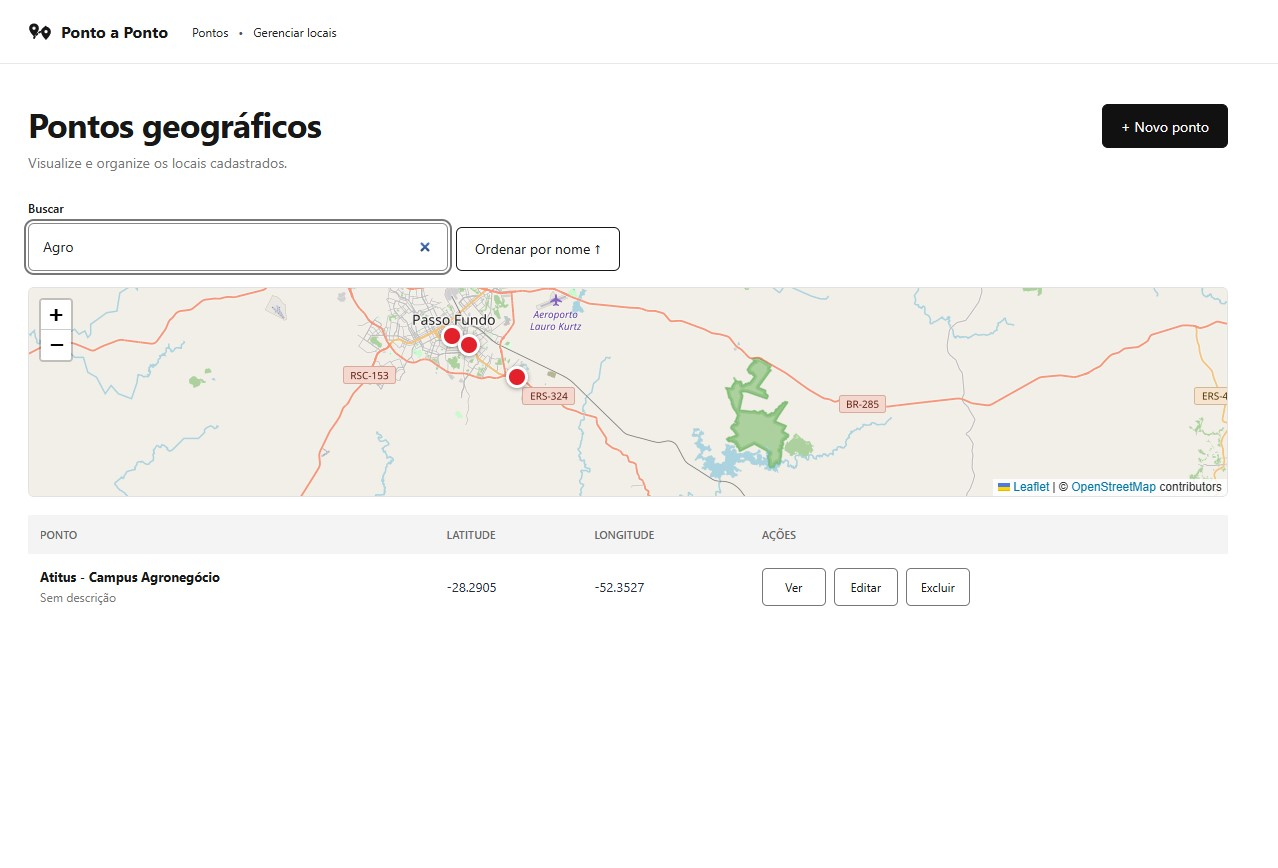
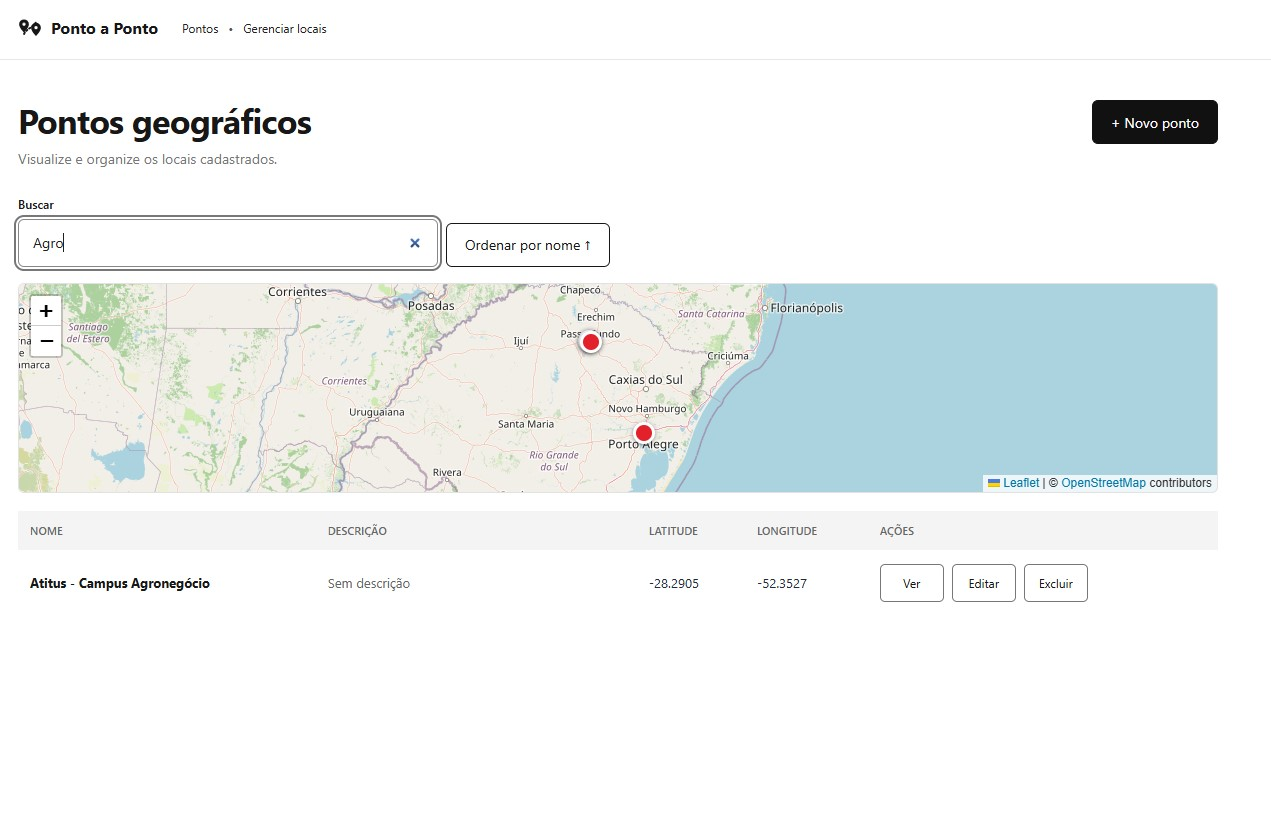
Ajustado design para manter em 2 colunas separadas o nome e a descrição

diff --git a/src/pages/ListaPontos.jsx b/src/pages/ListaPontos.jsx
@@ -9,22 +9,32 @@ function ListaPontos() {
   const [ordemAscendente, setOrdemAscendente] = useState(true);
   const [carregando, setCarregando] = useState(true);
   const [erro, setErro] = useState("");
-
-  async function carregarPontos() {
-    setCarregando(true);
-    setErro("");
-    try {
-      setPontos(await listarPontos());
-    } catch (error) {
-      setErro(error.message || "Não foi possível carregar os pontos.");
-    } finally {
-      setCarregando(false);
-    }
-  }
+  const [recarregar, setRecarregar] = useState(0);
 
   useEffect(() => {
-    carregarPontos();
-  }, []);
+    let ativo = true;
+
+    listarPontos()
+      .then((dados) => {
+        if (ativo) setPontos(dados);
+      })
+      .catch((error) => {
+        if (ativo) setErro(error.message || "Não foi possível carregar os pontos.");
+      })
+      .finally(() => {
+        if (ativo) setCarregando(false);
+      });
+
+    return () => {
+      ativo = false;
+    };
+  }, [recarregar]);
+
+  function tentarNovamente() {
+    setErro("");
+    setCarregando(true);
+    setRecarregar((numero) => numero + 1);
+  }
 
   const pontosFiltrados = useMemo(() => {
     const termo = filtro.trim().toLocaleLowerCase("pt-BR");
@@ -64,18 +74,20 @@ function ListaPontos() {
 
       <MapaPontos className="mapa-lista" pontos={pontos} rotulo="Mapa dos pontos cadastrados" />
 
-      {erro && <p className="aviso aviso-erro" role="alert">{erro} <button className="botao-texto" onClick={carregarPontos}>Tentar novamente</button></p>}
+      {erro && <p className="aviso aviso-erro" role="alert">{erro} <button className="botao-texto" onClick={tentarNovamente}>Tentar novamente</button></p>}
       {carregando ? <p className="aviso">Carregando pontos...</p> : !erro && pontosFiltrados.length === 0 ? <p className="aviso">{pontos.length === 0 ? "Nenhum ponto cadastrado." : "Nenhum ponto encontrado para esse filtro."}</p> : null}
 
       {!carregando && !erro && pontosFiltrados.length > 0 && (
         <div className="tabela-conteiner">
           <table>
-            <thead><tr><th>Ponto</th><th>Latitude</th><th>Longitude</th><th>Ações</th></tr></thead>
+            <thead><tr><th>Nome</th><th>Descrição</th><th>Latitude</th><th>Longitude</th><th>Ações</th></tr></thead>
             <tbody>{pontosFiltrados.map((ponto) => (
               <tr key={ponto.id}>
-                <td><Link className="link-nome" to={`/pontos/${ponto.id}`}>{ponto.name}</Link><span className="descricao-ponto">{ponto.description || "Sem descrição"}</span></td>
-                <td>{Number(ponto.latitude).toFixed(4)}</td><td>{Number(ponto.longitude).toFixed(4)}</td>
-                <td className="acoes"><Link to={`/pontos/${ponto.id}`}>Ver</Link><Link to={`/pontos/${ponto.id}/editar`}>Editar</Link><button className="botao-texto botao-perigo" onClick={() => handleExcluir(ponto)}>Excluir</button></td>
+                <td data-label="Nome"><Link className="link-nome" to={`/pontos/${ponto.id}`}>{ponto.name}</Link></td>
+                <td data-label="Descrição">{ponto.description || "Sem descrição"}</td>
+                <td data-label="Latitude">{Number(ponto.latitude).toFixed(4)}</td>
+                <td data-label="Longitude">{Number(ponto.longitude).toFixed(4)}</td>
+                <td className="acoes" data-label="Ações"><Link to={`/pontos/${ponto.id}`}>Ver</Link><Link to={`/pontos/${ponto.id}/editar`}>Editar</Link><button className="botao-texto botao-perigo" onClick={() => handleExcluir(ponto)}>Excluir</button></td>
               </tr>
             ))}</tbody>
           </table>

diff --git a/src/App.css b/src/App.css
@@ -41,7 +41,9 @@ td { height: 66px; border-bottom: 1px solid #ededed; }
 tbody tr:last-child td { border-bottom: 0; }
 .link-nome { display: block; color: #171717; font-weight: 700; text-decoration: none; }
 .link-nome:hover { text-decoration: underline; }
-.descricao-ponto { display: block; max-width: 300px; margin-top: 4px; overflow: hidden; color: #777; font-size: 12px; text-overflow: ellipsis; white-space: nowrap; }
+.tabela-conteiner th:first-child { min-width: 150px; }
+.tabela-conteiner th:nth-child(2) { min-width: 220px; }
+.tabela-conteiner td[data-label="Descrição"] { max-width: 360px; color: #666; }
 .acoes { white-space: nowrap; }
 .acoes a, .acoes .botao-texto { min-width: 64px; min-height: 38px; margin-right: 8px; display: inline-flex; align-items: center; justify-content: center; border: 1px solid #777; border-radius: 5px; padding: 0 10px; color: #171717; background: #fff; font-size: 12px; text-decoration: none; }
 .acoes a:hover, .acoes .botao-texto:hover { background: #f4f4f4; }
@@ -84,10 +86,12 @@ tbody tr:last-child td { border-bottom: 0; }
   thead { position: absolute; width: 1px; height: 1px; overflow: hidden; clip: rect(0, 0, 0, 0); white-space: nowrap; }
   tbody { display: grid; gap: 12px; }
   tbody tr { border: 1px solid #e2e2e2; border-radius: 6px; padding: 12px; }
-  td { display: inline-block; width: auto; height: auto; min-height: 32px; border: 0; padding: 5px 8px 5px 0; }
-  td:first-child { display: block; }
-  .descricao-ponto { white-space: normal; }
-  td.acoes { display: flex; flex-wrap: wrap; padding-top: 10px; }
+  td { display: grid; grid-template-columns: 90px minmax(0, 1fr); width: 100%; height: auto; min-height: 32px; border: 0; padding: 5px 0; }
+  td::before { content: attr(data-label); color: #777; font-size: 11px; font-weight: 650; text-transform: uppercase; }
+  td:first-child { display: grid; }
+  .tabela-conteiner td[data-label="Descrição"] { max-width: none; }
+  td.acoes { display: block; padding-top: 10px; }
+  td.acoes::before { display: block; margin-bottom: 7px; }
   .acoes a, .acoes .botao-texto { margin: 0 6px 4px 0; }
   .form-layout { grid-template-columns: 1fr; padding: 16px 0; }
   .formulario { order: 1; }
